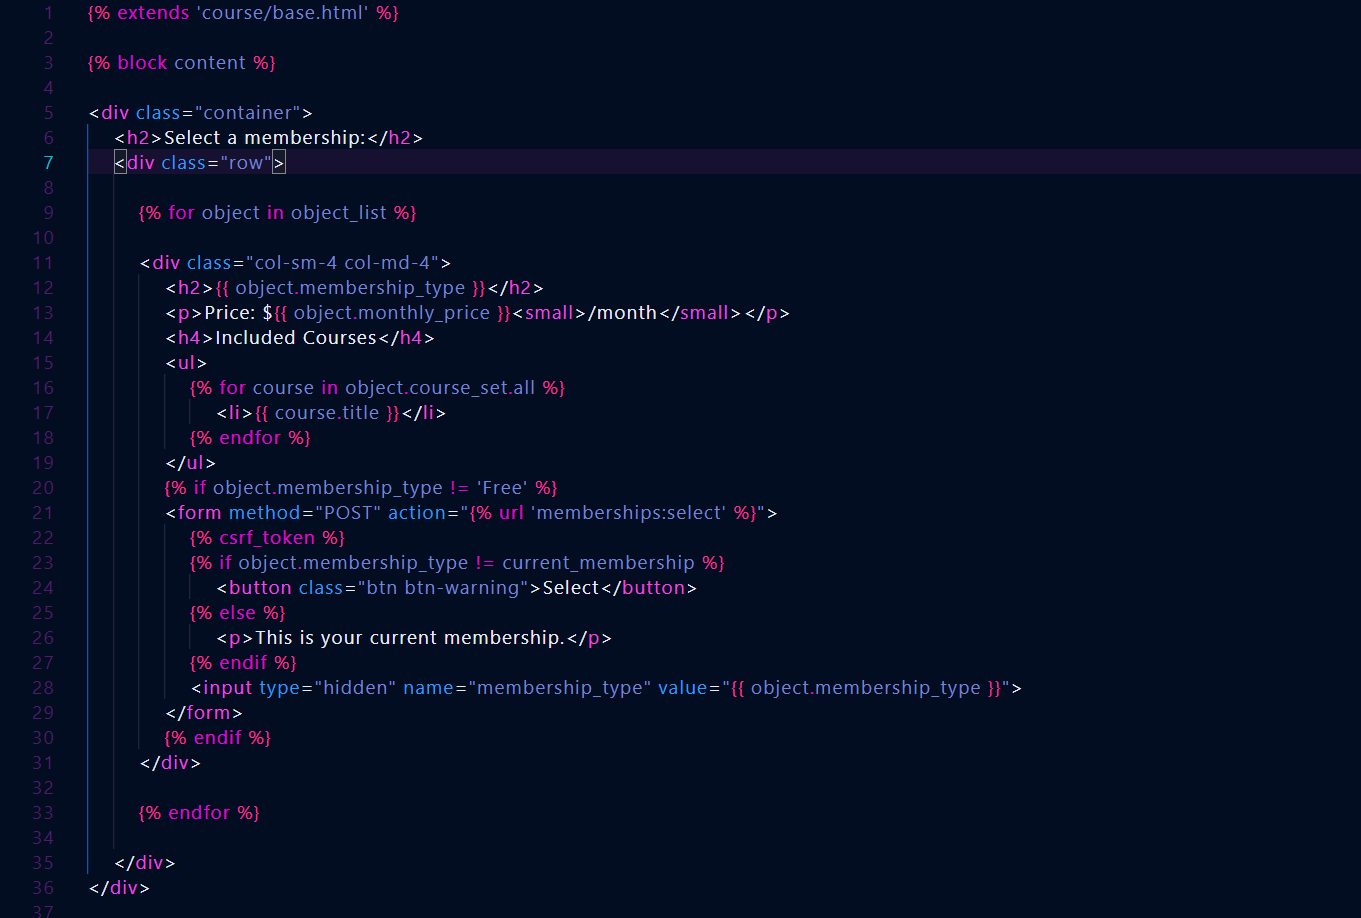
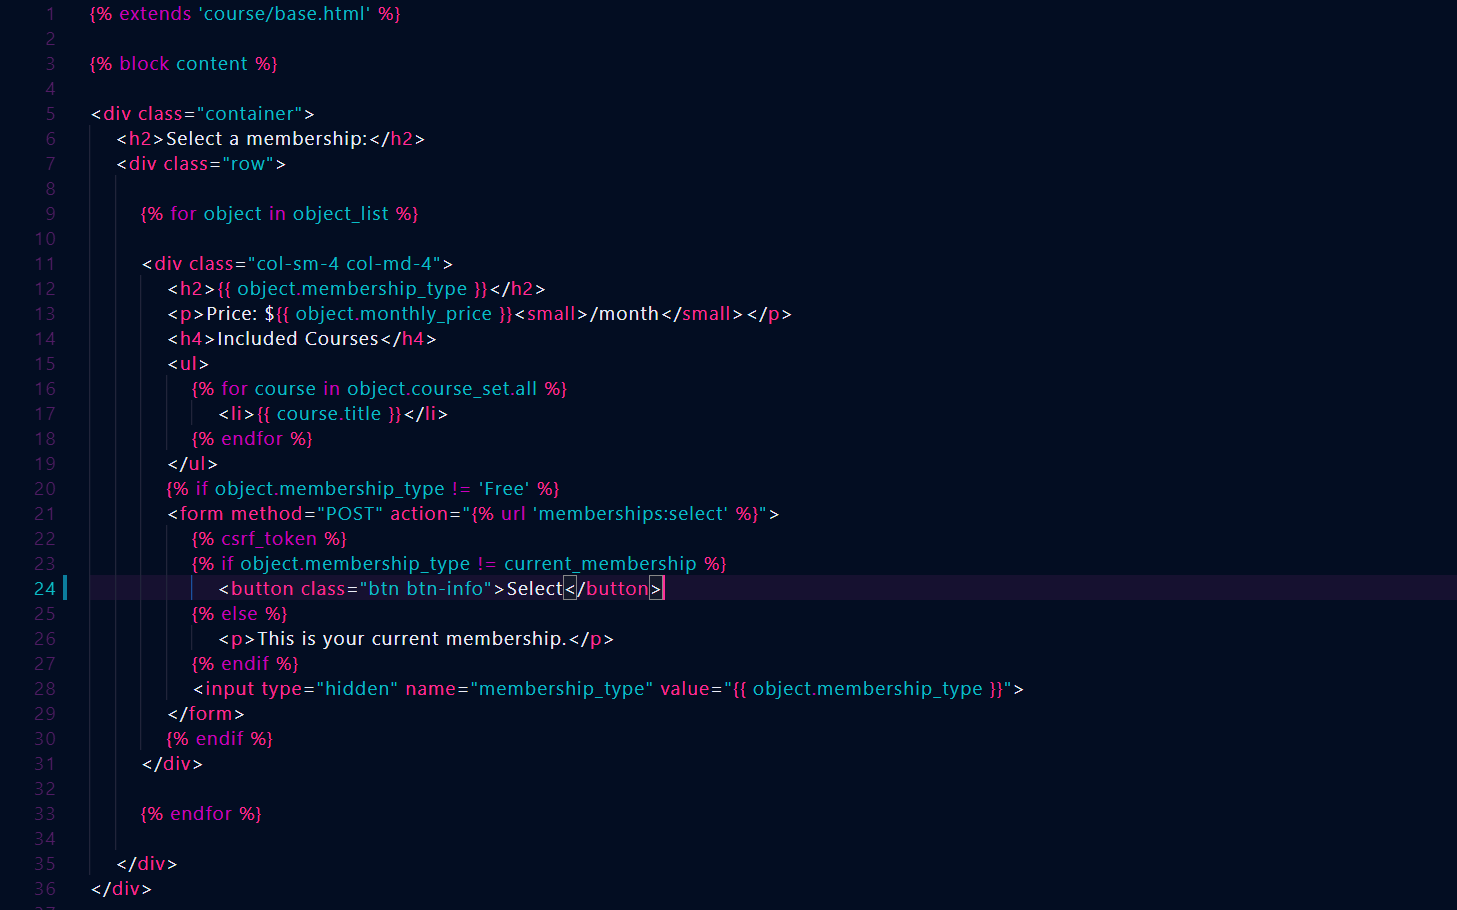
bump version (0.1.0)
edited keywords, strings etc. updated html.png.

diff --git a/README.md b/README.md
@@ -2,7 +2,7 @@
 
 ![GitHub package.json version](https://img.shields.io/github/package-json/v/endormi/vscode-2077-theme.svg)
 
-[Cyberpunk 2077](https://www.cyberpunk.net/en/) inspired theme.
+[Cyberpunk 2077](https://www.cyberpunk.net/) game inspired theme.
 
 The base of the theme is copied from [outrun](https://github.com/samrap/outrun-theme-vscode).
 I edited the theme quite a bit to make it more similar to the Cyberpunk 2077 color palette.
@@ -11,13 +11,13 @@ I edited the theme quite a bit to make it more similar to the Cyberpunk 2077 col
 
 ![JSON](https://user-images.githubusercontent.com/39559256/54088015-d7a03400-4361-11e9-971a-8882e2f9e75d.PNG)
 
+### HTML
+
+![HTML](https://user-images.githubusercontent.com/39559256/54119977-4d0e1200-43ff-11e9-8289-3e7fcc835a61.PNG)
+
 ### Python
 
 ![Python](https://user-images.githubusercontent.com/39559256/54088018-db33bb00-4361-11e9-8880-d56fa9742bc1.PNG)
-
-### HTML
-
-![HTML](https://user-images.githubusercontent.com/39559256/54088020-de2eab80-4361-11e9-8f69-17a06a3c954e.PNG)
 
 ### This is only the beta release
 
@@ -29,6 +29,6 @@ Clone to test this theme out:
 git clone https://github.com/endormi/vscode-2077-theme.git
 ```
 
-If any issues occur, please open up a new [issue](https://github.com/endormi/vscode-2077-theme/issues).
+If any issues occur or you have ideas for new improvements, please open up a new [issue](https://github.com/endormi/vscode-2077-theme/issues).
 
 **Enjoy!**

diff --git a/CHANGELOG.md b/CHANGELOG.md
@@ -1,6 +1,13 @@
 # Change Log
 All notable changes to the "2077-theme" extension will be documented in this file.
 
+**Beta versions (Once the theme is published, v. releases will be more consistent)**
+
+## [0.1.0]
+- Edited scrollbar
+- Edited strings, keywords, constants, entities etc.
+- New image
+
 ## [0.0.5]
 - Quick color palette changes
 
